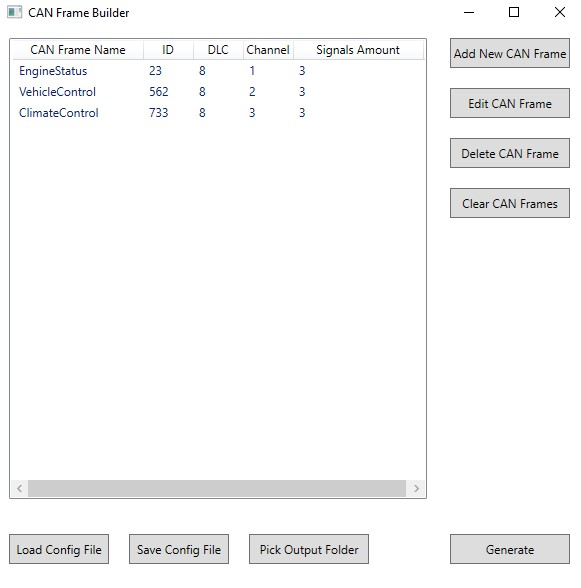
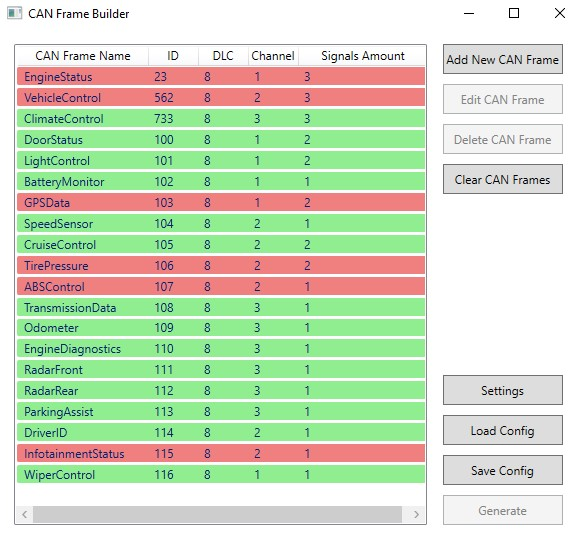
Rework example and readme.

diff --git a/View/Main/SettingsModal.xaml b/View/Main/SettingsModal.xaml
@@ -5,7 +5,9 @@
         xmlns:mc="http://schemas.openxmlformats.org/markup-compatibility/2006"
         xmlns:local="clr-namespace:CanFrameBuilder.ViewModel"
         mc:Ignorable="d"
-        Title="Settings" Height="720" Width="400" MinWidth="400" MinHeight="700">
+        Title="Settings" 
+        Height="550" MinHeight="550"
+        Width="600" MinWidth="600">
     <Grid Margin="10">
         <Grid.RowDefinitions>
             <RowDefinition Height="Auto"/>

diff --git a/View/Main/CANFrameModal.xaml b/View/Main/CANFrameModal.xaml
@@ -9,8 +9,8 @@
         xmlns:sys="clr-namespace:System;assembly=mscorlib"
         mc:Ignorable="d"
         Title="Manage CAN Frame" 
-        Height="580" Width="650" 
-        MinHeight="580" MinWidth="650">
+        Height="550" Width="650" 
+        MinHeight="550" MinWidth="650">
 
     <Window.Resources>
         <ObjectDataProvider x:Key="byteOrderEnum" MethodName="GetValues" ObjectType="{x:Type sys:Enum}">

diff --git a/ViewModel/MainWindowViewModel.cs b/ViewModel/MainWindowViewModel.cs
@@ -147,6 +147,7 @@ public class MainWindowViewModel : ViewModelBase
         {
             var generator = new SourceCodeGenerator(Settings);
             generator.Generate([.. Frames]);
+            MessageBox.Show($"Generation of {Frames.Count} element(s) finished.", "Generation Success", MessageBoxButton.OK, MessageBoxImage.Information);
         }
         else
         {

diff --git a/README.md b/README.md
@@ -1,6 +1,6 @@
 # CAN Frame Builder
 ## About  
-This repository contains a .NET WPF application designed to streamline the generation of source code for **CANoe Testing** within the .NET Framework. The application provides a user-friendly interface to define and describe the structure of CAN frames and generates `.cs` classes that are ready for integration into your testing environment.  
+This repository contains a .NET WPF application designed to streamline the generation of source code for CANoe Testing within the .NET Framework. The application provides a user-friendly interface to define and describe the structure of CAN frames and generates .cs classes that are ready for integration into your testing environment.
 
 ![CAN Frame Builder](Example/main_window.jpg)
 
@@ -15,12 +15,18 @@ This repository contains a .NET WPF application designed to streamline the gener
 - **Signal Description**:  
   Precisely describe individual signals within the CAN frame:  
   - **Signal Name**: Identifier for the signal.  
-  - **MSB/LSB**: Most and least significant bits.  
+  - **LSB**: Least significant bits.  
   - **Bit Count**: Total bits used by the signal.  
   - **Byte Order**: Endianness (Big-Endian or Little-Endian).  
 
+- **Create, Edit, and Manage Frames**:  
+  Add new CAN frames and signals. 
+  Edit existing frames with deep clone functionality.
+  Delete individual frames or clear all frames.
+
 - **Code Generation**:  
   Choose an output path, and the application generates `.cs` classes that extend CAN frames. These classes are optimized for seamless integration into the testing environment.  
+  Classes are optimized for seamless integration into testing environments.
 
 - **Save and Load Configurations**:  
   - Save entered data to a `.json` file for future use.  
@@ -28,9 +34,32 @@ This repository contains a .NET WPF application designed to streamline the gener
 
 - **Example Configurations**:  
   An `Example` folder is included in the repository, containing sample `.json` configuration files. These examples demonstrate how to define CAN frames and signals, providing a helpful starting point for new users.  
+  Over 20 predefined CAN frames demonstrating full use cases.
 
 #### Example CAN Frame Definition  
 ![CAN Frame Example](Example/manage_frame_modal.jpg)
 
+#### Example Settings 
+![Settings Example](Example/settings_modal.jpg)
+
 ### Why Use This Application?  
 This tool eliminates the repetitive and error-prone task of manually writing source code for CANoe Testing. By automating code generation, it enhances productivity, reduces the risk of errors, and simplifies the process of adapting to new or updated CAN frame structures.  
+
+## Application Structure
+
+- **Model**
+  - Defines the data structures for CAN Frames, Signals, and Settings.
+- **View**
+  - Contains the WPF UI components (Windows, Dialogs).
+- **ViewModel**
+  - Manages logic and interaction between View and Model.
+  - `MainWindowViewModel` handles Add, Edit, Delete, Clear, Load Config, and Settings commands with RelayCommand bindings.
+- **Utility**
+  - JSONHandler for configuration file operations.
+
+## Technologies
+
+- .NET 8.0
+- WPF (Windows Presentation Foundation)
+- MVVM Architecture
+- JSON Serialization/Deserialization
